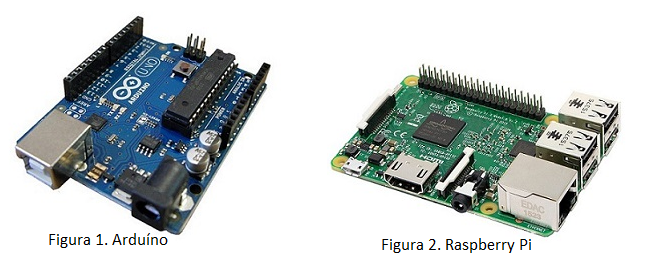
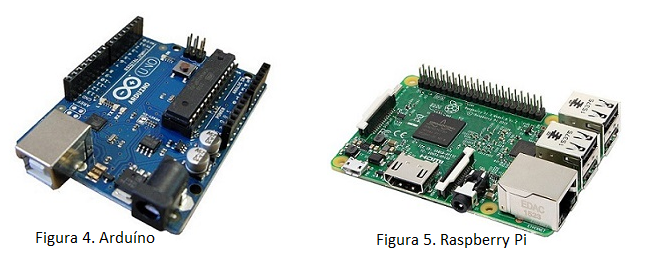
news

Changed region(s): [[0.5373, 0.8689, 0.806, 0.9588], [0.0299, 0.8689, 0.2687, 0.9288]]

diff --git a/src/tela06.html b/src/tela06.html
@@ -26,12 +26,12 @@
         </div>
         <br>
         <div class="text" >
-            <h1><img src="img/automacao.svg" alt="icone " width="70px">Tipos de Hardware de
-                Controle: Placas de Desenvolvimento para Domótica</h1>
+            <h1><img src="img/automacao.svg" alt="icone " width="70px">Tipos de hardware de
+                controle: placas de desenvolvimento para domótica</h1>
         </div>
        <br>
         <div class="texts">
-            <p> Utilizando sistemas inteligentes ou integrados em uma controladora de automação, é possível monitorar e gerenciar toda a residência através de uma central via smartphone, tablet e internet. Para a criação de um sistema inteligente é conveniente estudar sobre ferramentas, como Arduíno e Raspberry pi, que são hardwares de baixo custo e acessíveis tanto para profissionais em programação e eletrônica quanto para curiosos que gostam do tema. Mas afinal, o que é um Arduíno e um Raspberry pi? E quais suas funcionalidades?
+            <p> Utilizando sistemas inteligentes ou integrados em uma controladora de automação, é possível monitorar e gerenciar toda a residência através de uma central via smartphone, tablet e internet. Para a criação de um sistema inteligente é conveniente estudar sobre ferramentas, como Arduíno e Raspberry Pi, que são hardwares de baixo custo e acessíveis tanto para profissionais em programação e eletrônica quanto para curiosos que gostam do tema. Mas afinal, o que é um Arduíno e um Raspberry pi? E quais suas funcionalidades?
         </div>
         <div class='img2'>
             <img src="img/2 figuras.png">
@@ -40,11 +40,11 @@
         <br>
 
         <div class="texts">
-            <p>O Arduino, mostrado na Figura 1, é uma a placa
+            <p>O Arduino, mostrado na Figura 4, é uma a placa
                 composta por um microcontrolador, circuitos de entrada/saída e que pode ser
                 facilmente conectada à um computador e programada via IDE (Integrated
                 Development Environment, ou Ambiente de Desenvolvimento Integrado) utilizando
-                uma linguagem baseada em C. Já o Raspberry pi, mostrado na Figura 2, é um
+                uma linguagem baseada em C. Já o Raspberry Pi, mostrado na Figura 5, é um
                 minicomputador, semelhante ao PC (personal computer). A diferença é que este
                 dispositivo é compacto e possui todos os principais componentes de um computador
                 numa pequena placa do tamanho de um cartão de crédito. Este tipo de hardware, assim

diff --git a/src/tipos_hw_control.html b/src/tipos_hw_control.html
@@ -27,20 +27,19 @@
         <br>
         <br>
         <div class="text">
-            <h1 data-anime="up"><img src="img/controlador.svg" alt="icone " width="70px">Tipos de Hardware de Controle</h1>
+            <h1 data-anime="up"><img src="img/controlador.svg" alt="icone " width="70px">Tipos de hardware de controle</h1>
         </div>
         <div class="texts">
-            <p>Primeiramente temos o controlador que é específico  para  automação residencial, demostrado na Figura 1, que é o dispositivo responsável
-                 por monitorar de forma geral os elementos automatizados na casa.</p>
+            <p>O primeiro tipo de controlador é o CLP, como mostrador na Figura 2, que é específico para uso em automação, e que pode ser utilizado para monitorar e controlar uma residência.</p>
         </div>
         <div class="img">
             <img src="img/Controlador para automação.jpg" width="30px">
         </div>
         <div class="texts">
-            <p>A seguir temos um controlador muito mais conhecido que um de automação residencial, estamos falando do controle remoto, demostrado na Figura 2. Muitos dispositivos são monitorados a partir de um destes, desde uma televisão, projetor, ar-condicionado, até mesmo os mais famosos consoles/vídeo-games possuem o controle como um acessório indispensável.</p>
+            <p>A seguir temos um controlador muito mais conhecido que um de automação residencial, estamos falando do controle remoto, demostrado na Figura 3. Muitos dispositivos são monitorados a partir de um destes, desde uma televisão, projetor, ar-condicionado, até mesmo os mais famosos consoles/vídeo-games possuem o controle como um acessório indispensável.</p>
         </div>
         <div class="img">
-            <img src="img/Controle remoto.jpg" width="30px">
+            <img src="img/Controle remoto.jpg" width="70px">
         </div>
         <br>
     </br>

diff --git a/src/tipos_atuador.html b/src/tipos_atuador.html
@@ -25,7 +25,7 @@
             <a href="/hardware_controle" class="next"><i class="fas fa-forward"> Próximo</a></i>
         </div>
         <div class="text" >
-            <h1><img src="img/controller.svg" alt="icone " width="70px">Tipos de Atuadores Para Automação Residencial</h1>
+            <h1><img src="img/controller.svg" alt="icone " width="70px">Tipos de atuadores para automação residencial</h1>
         </div>
 
         <div class="text1">

diff --git a/home-automation-simulation_3.0/index.html b/home-automation-simulation_3.0/index.html
@@ -20,7 +20,7 @@
     <div class="wrapper-pannel">
         <div class="row">
             <a href="/">
-                <i class="fa fa-chevron-left" aria-hidden="true"></i> Voltar ao menu    
+                <i class="fa fa-chevron-left" aria-hidden="true"></i> Voltar à página inicial   
             </a>
             <a href="/Sumario">
                 <i class="fa fa-chevron-left" aria-hidden="true"></i> Voltar à trilha    
